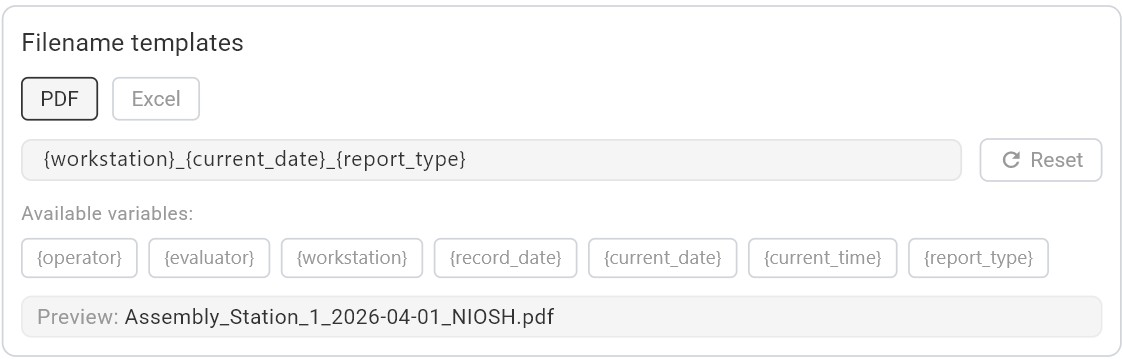
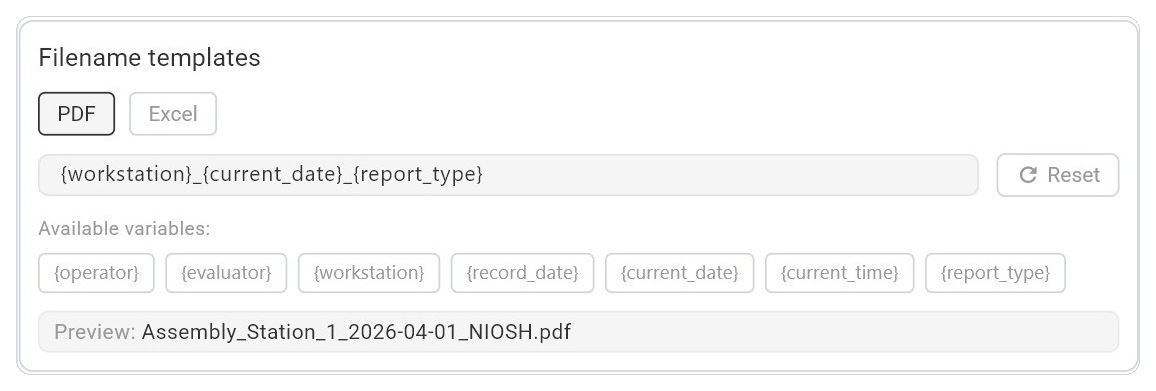
Polish export article images and fix captions
- Crop drop-shadow margins from exportwindow.jpg and exportsettings.jpg; apply clean white background with rounded border
- Fix caption: 'upload icon' → 'export icon'
- Shorten exportsettings caption: 'of the resulting filename' → 'of the filename'

Changed region(s): [[0.0, 0.0, 1.0, 1.0]]

diff --git a/articles/exporting-reports.html b/articles/exporting-reports.html
@@ -292,7 +292,7 @@
 
         <figure class="article-figure">
           <img src="exportfunction.jpg" alt="The Export button highlighted in the report tab bar" />
-          <figcaption>The Export button (upload icon) in the report tab bar, highlighted next to the Edit button.</figcaption>
+          <figcaption>The Export button (export icon) in the report tab bar, highlighted next to the Edit button.</figcaption>
         </figure>
 
         <p>The Export button sits in the tab bar at the top of every completed report, next to the Edit button. Clicking it opens an export dialog where you select the format (PDF or Excel), confirm the filename, and set a save location. The output folder defaults to the folder last used for that specific report and format, so repeat exports always land in the right place. The file is generated once you confirm your selections.</p>
@@ -326,7 +326,7 @@
 
         <figure class="article-figure">
           <img src="exportsettings.jpg" alt="Filename template settings showing PDF and Excel tabs, template input field, available variables, and a live filename preview" />
-          <figcaption>Filename template settings in the report type's settings page — configure separate templates for PDF and Excel, with a live preview of the resulting filename.</figcaption>
+          <figcaption>Filename template settings in the report type's settings page — configure separate templates for PDF and Excel, with a live preview of the filename.</figcaption>
         </figure>
 
         <h3>Available variables</h3>